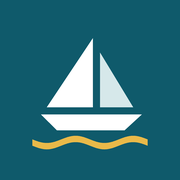
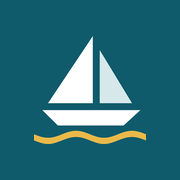
Botão de instalar o app (Android e iPhone) e ícones com margem segura
Claude-Session: https://claude.ai/code/session_01CLPRyGzc3mpYxXQMRFmEHC

Changed region(s): [[0.1667, 0.1944, 0.8333, 0.8333], [0.6389, 0.4167, 0.6667, 0.4722]]

diff --git a/index.html b/index.html
@@ -11,7 +11,9 @@
 <meta name="apple-mobile-web-app-title" content="Limamar">
 <meta name="apple-mobile-web-app-status-bar-style" content="black-translucent">
 <link rel="manifest" href="manifest.webmanifest">
-<link rel="icon" href="icons/icon-192.png" type="image/png">
+<link rel="icon" href="icons/favicon-32.png" sizes="32x32" type="image/png">
+<link rel="icon" href="icons/favicon-48.png" sizes="48x48" type="image/png">
+<link rel="icon" href="icons/icon-192.png" sizes="192x192" type="image/png">
 <link rel="apple-touch-icon" href="icons/apple-touch-icon.png">
 <link rel="preconnect" href="https://fonts.googleapis.com">
 <script>var LM_AUTH=false;/* liga quando o servidor de contas estiver pronto */if(LM_AUTH){try{if(!localStorage.getItem('lm-ok'))document.documentElement.classList.add('locked')}catch(e){document.documentElement.classList.add('locked')}}</script>
@@ -97,8 +99,8 @@ header.top h1{font-size:2rem;line-height:1;font-weight:700}
 .aviso.stop .w{color:var(--stop)}
 .aviso details{font-size:.82rem}
 .aviso pre{white-space:pre-wrap;font-family:var(--mono);font-size:.76rem;margin:6px 0 0}
-.mar-ok{font-size:.82rem;color:var(--muted);display:flex;gap:8px;align-items:center;flex-wrap:wrap}
-.mar-ok::before{content:"";width:9px;height:9px;border-radius:50%;background:var(--go);flex:none}
+.mar-ok{font-size:.82rem;color:var(--muted);display:block;padding-left:17px;position:relative}
+.mar-ok::before{content:"";position:absolute;left:0;top:.42em;width:9px;height:9px;border-radius:50%;background:var(--go)}
 .mar-ok.unk::before{background:var(--line)}
 
 /* Ficha do lugar */
@@ -206,6 +208,20 @@ input[type=text],input[type=number],input[type=time],input[type=date]{font:inher
 .top-right button.share{display:inline-flex;align-items:center;gap:6px;padding:6px 12px;font-size:.8rem;line-height:1.1;border-width:1.5px;border-radius:999px;white-space:nowrap}
 .top-right button.share svg{width:15px;height:15px;flex:none}
 .top-right{display:grid;justify-items:end;gap:6px}
+
+/* Instalar o app */
+.inst{position:fixed;left:12px;right:12px;top:calc(10px + env(safe-area-inset-top,0px));z-index:40;max-width:536px;margin:0 auto;display:flex;align-items:center;gap:12px;background:var(--surface);color:var(--ink);border:1px solid var(--line);border-radius:16px;padding:10px 12px;box-shadow:0 8px 28px rgba(4,22,27,.28)}
+.inst img{width:44px;height:44px;border-radius:11px;flex:none}
+.inst .tx{flex:1;min-width:0}
+.inst .tx b{display:block;font-size:.92rem;line-height:1.2}
+.inst .tx span{font-size:.76rem;color:var(--muted)}
+.inst .bt{display:grid;gap:2px;justify-items:end;flex:none}
+.inst .bt button:first-child{padding:8px 14px;font-size:.88rem}
+.inst .no{background:none;border:0;padding:2px 4px;font-size:.72rem;font-weight:400;color:var(--muted)}
+.steps{display:grid;gap:12px;margin:0;padding:0;list-style:none}
+.steps li{display:grid;grid-template-columns:28px 1fr;gap:10px;align-items:center}
+.steps li>b{width:28px;height:28px;border-radius:50%;display:grid;place-items:center;background:var(--bay);color:var(--on-bay);font-size:.8rem}
+.steps svg{width:20px;height:20px;vertical-align:-4px;margin:0 2px}
 
 /* Carta */
 .map{position:relative;height:calc(100dvh - 250px - env(safe-area-inset-bottom,0px) - env(safe-area-inset-top,0px));min-height:340px;border-radius:12px;overflow:hidden;background:#cfd8da;border:1px solid var(--line);touch-action:none;user-select:none;-webkit-user-select:none;cursor:grab}
@@ -401,6 +417,12 @@ nav.tabs{position:fixed;left:0;right:0;bottom:0;background:var(--surface);border
         <span class="legend" id="share-msg" aria-live="polite"></span>
       </div>
 
+      <div class="panel" id="inst-panel">
+        <h2>Instalar no celular</h2>
+        <p class="legend" style="margin:0" id="inst-txt">Coloque o Limamar na tela inicial: abre como aplicativo, em tela cheia, e funciona sem sinal no mar.</p>
+        <button type="button" id="inst-btn">Instalar o Limamar</button>
+      </div>
+
       <div class="panel">
         <h2>Vencimentos</h2>
         <div id="docs"></div>
@@ -412,6 +434,21 @@ nav.tabs{position:fixed;left:0;right:0;bottom:0;background:var(--surface);border
 
 <dialog class="sheet" id="sheet" aria-labelledby="pl-name"><div class="in" id="sheet-in"></div></dialog>
 <div id="auth" class="auth" hidden></div>
+<div class="inst" id="inst" role="dialog" aria-label="Instalar o app Limamar" hidden>
+  <img src="icons/icon-192.png" alt="">
+  <div class="tx"><b>Instale o Limamar</b><span>Abre direto da tela inicial e funciona sem sinal.</span></div>
+  <div class="bt"><button type="button" id="inst-go">Instalar</button><button type="button" class="no" id="inst-no">Agora não</button></div>
+</div>
+<dialog class="sheet" id="inst-ios" aria-labelledby="ios-t"><div class="in">
+  <div class="hd"><div style="display:flex;gap:12px;align-items:center"><img src="icons/icon-192.png" alt="" style="width:48px;height:48px;border-radius:12px"><h2 id="ios-t" style="font-size:1.4rem">Instalar no iPhone</h2></div><button type="button" class="ghost x" id="ios-x" aria-label="Fechar">×</button></div>
+  <ol class="steps">
+    <li><b>1</b><span>Toque em <strong>Compartilhar</strong><svg viewBox="0 0 24 24" fill="none" stroke="#0a84ff" stroke-width="2" stroke-linecap="round" stroke-linejoin="round" aria-hidden="true"><path d="M12 3v12M7 8l5-5 5 5"/><path d="M5 12v7a2 2 0 0 0 2 2h10a2 2 0 0 0 2-2v-7"/></svg>na barra do Safari (embaixo ou em cima da tela).</span></li>
+    <li><b>2</b><span>Role a lista e escolha <strong>Adicionar à Tela de Início</strong><svg viewBox="0 0 24 24" fill="none" stroke="currentColor" stroke-width="2" stroke-linecap="round" stroke-linejoin="round" aria-hidden="true"><rect x="3" y="3" width="18" height="18" rx="4"/><path d="M12 8v8M8 12h8"/></svg>.</span></li>
+    <li><b>3</b><span>Toque em <strong>Adicionar</strong>. O ícone do Limamar aparece na tela inicial.</span></li>
+  </ol>
+  <p class="legend" style="margin:0" id="ios-extra"></p>
+  <button type="button" id="ios-ok">Entendi</button>
+</div></dialog>
 <dialog id="conta" class="sheet conta" aria-labelledby="ct-title"><div class="in" id="conta-in"></div></dialog>
 
 <nav class="tabs" role="tablist" aria-label="Seções">
@@ -786,6 +823,35 @@ $('share-app').onclick=async()=>{
   try{await navigator.clipboard.writeText(url);flash('Link copiado. Cole no WhatsApp para enviar.')}
   catch(e){window.open('https://wa.me/?text='+encodeURIComponent(data.text+' '+url),'_blank','noopener')}
 };
+/* Instalar na tela inicial */
+const Inst=(()=>{
+  const KEY='np-inst-no',DAYS=14;
+  const standalone=()=>matchMedia('(display-mode: standalone)').matches||matchMedia('(display-mode: fullscreen)').matches||navigator.standalone===true;
+  const ios=/iPhone|iPad|iPod/i.test(navigator.userAgent)||(/Macintosh/.test(navigator.userAgent)&&navigator.maxTouchPoints>1);
+  const iosOther=ios&&/CriOS|FxiOS|EdgiOS|Instagram|FBAN|FBAV/i.test(navigator.userAgent);
+  let deferred=null;
+  const banner=$('inst'),panel=$('inst-panel');
+  const dismissed=()=>{const t=store.get(KEY,0);return t&&Date.now()-t<DAYS*864e5};
+  function refresh(){
+    if(standalone()){banner.hidden=true;$('inst-txt').textContent='O Limamar já está instalado neste celular.';$('inst-btn').hidden=true;return}
+    $('inst-btn').hidden=!(deferred||ios);
+    if(!deferred&&!ios)$('inst-txt').textContent='Abra este endereço no Chrome (Android) ou no Safari (iPhone) para instalar o Limamar na tela inicial.';
+  }
+  function showBanner(){if(!standalone()&&!dismissed()&&!document.documentElement.classList.contains('locked'))banner.hidden=false}
+  async function go(){
+    if(deferred){deferred.prompt();const r=await deferred.userChoice.catch(()=>({}));deferred=null;if(r.outcome==='accepted')banner.hidden=true;refresh();return}
+    if(ios){$('ios-extra').textContent=iosOther?'No iPhone, a instalação funciona pelo Safari. Se você abriu por outro app, copie o endereço e abra no Safari.':'';const d=$('inst-ios');d.showModal?d.showModal():d.setAttribute('open','')}
+  }
+  window.addEventListener('beforeinstallprompt',e=>{e.preventDefault();deferred=e;refresh();showBanner()});
+  window.addEventListener('appinstalled',()=>{banner.hidden=true;deferred=null;refresh()});
+  $('inst-go').onclick=go;$('inst-btn').onclick=go;
+  $('inst-no').onclick=()=>{store.set(KEY,Date.now());banner.hidden=true};
+  $('ios-x').onclick=$('ios-ok').onclick=()=>$('inst-ios').close();
+  $('inst-ios').addEventListener('click',e=>{if(e.target===$('inst-ios'))$('inst-ios').close()});
+  refresh();
+  if(ios&&!standalone())setTimeout(showBanner,2500);
+  return {refresh,showBanner};
+})();
 function flash(t){const s=$('status');const old=s.textContent,oc=s.className;s.textContent=t;s.className='status';setTimeout(()=>{s.textContent=old;s.className=oc},2500)}
 
 function renderTide(loc){

diff --git a/sw.js b/sw.js
@@ -1,7 +1,7 @@
 // Limamar: guarda o app e a carta no celular para abrir sem sinal.
-const SHELL_CACHE = 'limar-v5';
+const SHELL_CACHE = 'limar-v6';
 const CARTA_CACHE = 'limar-cartas-v1';
-const SHELL = ['./', 'index.html', 'manifest.webmanifest', 'icons/icon-192.png', 'icons/icon-512.png', 'icons/apple-touch-icon.png', 'cartas/cartas.json', 'conta.js', 'conta.css'];
+const SHELL = ['./', 'index.html', 'manifest.webmanifest', 'icons/icon-192.png', 'icons/icon-512.png', 'icons/apple-touch-icon.png', 'icons/maskable-512.png', 'icons/favicon-32.png', 'cartas/cartas.json', 'conta.js', 'conta.css'];
 
 self.addEventListener('install', e => {
   e.waitUntil(caches.open(SHELL_CACHE).then(c => c.addAll(SHELL)).then(() => self.skipWaiting()));
